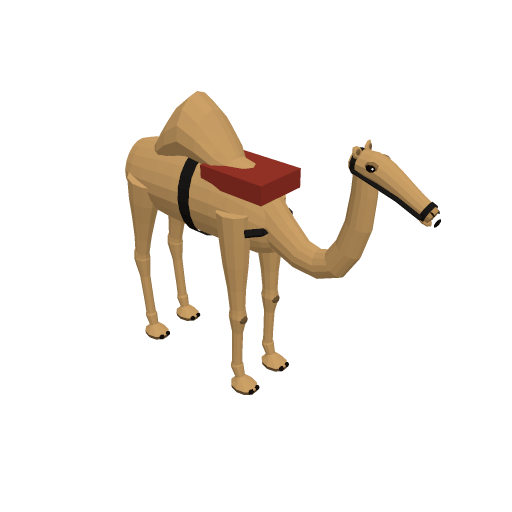
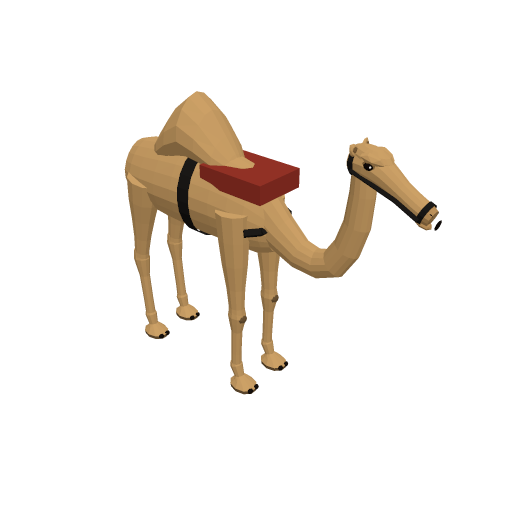
Draft animals: elephant ear flap and eye, camel brow, ox face, trot timing
- the elephant's ear is a thick curved flap (`flap`) rooted down the side of
  the head, cupped away from it, its top rolled out and its lobe hanging below
  the jaw; a bigger eye in a wrinkled socket;
- a heavy brow over the eye (`BROW`) on the camel, the elephant and the ox;
  the camel's domed forehead and thicker snout;
- the cow is a draft ox: a short, broad face with a flat forehead (`CREST`);
- the trot no longer spreads all four legs straight: the trotters plant a
  foot for less than half the stride and the joints fold as soon as the foot
  leaves the ground, so the swinging pair is tucked while the other carries
  the body (regression test in test/animalDrawn.test.ts).

Claude-Session: https://claude.ai/code/session_01BW4qmXPkc7DJGUGLoodsop

diff --git a/generator/draftAnimals.ts b/generator/draftAnimals.ts
@@ -128,7 +128,7 @@ export const SPECIES_SPECS: Readonly<Record<Species, SpeciesSpec>> = {
     ears: { length: 0.16, width: 0.045, droop: 0 },
     face: { eye: 0.24, eyeUp: 0.42, eyeR: 0.042, nose: "equine", forelock: true },
     colors: { coat: "#5a2c19", mane: "#1c1411", muzzle: "#d7b3a3", foot: "#3a322d", lower: "#ece5d8", blaze: "#ece5d8", inner: "#2a1710", nose: "#3a2420" },
-    mane: "flowing", harness: "collar", foot: "hoof", gait: "trot", stride: 2.4, duty: 0.5,
+    mane: "flowing", harness: "collar", foot: "hoof", gait: "trot", stride: 2.4, duty: 0.42,
     pairWidth: 0.92, rowLength: 3.1, counts: [1, 2, 4, 6], abreast: true,
     pace: 12, power: 6, weight: 0.8, size: 0.55,
   },
@@ -139,7 +139,7 @@ export const SPECIES_SPECS: Readonly<Record<Species, SpeciesSpec>> = {
     ears: { length: 0.28, width: 0.06, droop: 0.15 },
     face: { eye: 0.26, eyeUp: 0.42, eyeR: 0.034, nose: "equine" },
     colors: { coat: "#7d7570", mane: "#3b3532", muzzle: "#e4ddd3", foot: "#33302d", lid: "#d9d2c8", inner: "#e9e2d8", nose: "#2f2a27" },
-    mane: "upright", harness: "collar", foot: "hoof", gait: "trot", stride: 1.5, duty: 0.55,
+    mane: "upright", harness: "collar", foot: "hoof", gait: "trot", stride: 1.5, duty: 0.45,
     pairWidth: 0.62, rowLength: 2.1, counts: [1, 2, 4, 6], abreast: true,
     pace: 6, power: 2.5, weight: 0.25, size: 0.15,
   },
@@ -150,7 +150,7 @@ export const SPECIES_SPECS: Readonly<Record<Species, SpeciesSpec>> = {
     ears: { length: 0.25, width: 0.055, droop: 0.08 },
     face: { eye: 0.25, eyeUp: 0.42, eyeR: 0.038, nose: "equine", forelock: true },
     colors: { coat: "#4a3326", mane: "#231a15", muzzle: "#bfa48f", foot: "#2f2925", lid: "#7a604e", inner: "#b49a86", nose: "#2a1d17" },
-    mane: "upright", harness: "collar", foot: "hoof", gait: "trot", stride: 2.0, duty: 0.52,
+    mane: "upright", harness: "collar", foot: "hoof", gait: "trot", stride: 2.0, duty: 0.43,
     pairWidth: 0.82, rowLength: 2.7, counts: [1, 2, 4, 6], abreast: true,
     pace: 9, power: 5, weight: 0.45, size: 0.4,
   },
@@ -158,14 +158,14 @@ export const SPECIES_SPECS: Readonly<Record<Species, SpeciesSpec>> = {
     species: "cow", title: "Draft Cow",
     barrel: [[-0.98, 1.12, 0.12, 0.14], [-0.92, 1.1, 0.3, 0.33], [-0.7, 1.07, 0.36, 0.4], [-0.3, 1.04, 0.38, 0.43], [0.15, 1.03, 0.39, 0.45], [0.55, 1.07, 0.34, 0.43], [0.8, 1.1, 0.27, 0.36], [0.92, 1.06, 0.14, 0.22]],
     neck: [[0.7, 1.15, 0.24, 0.33], [0.92, 1.19, 0.2, 0.28], [1.08, 1.24, 0.16, 0.22]],
-    head: [[1.06, 1.4, 0.14, 0.11], [1.12, 1.34, 0.165, 0.15], [1.2, 1.23, 0.15, 0.14], [1.28, 1.11, 0.13, 0.12], [1.34, 1.02, 0.125, 0.1], [1.38, 0.97, 0.13, 0.085], [1.41, 0.94, 0.125, 0.07]],
+    head: [[1.07, 1.41, 0.16, 0.1], [1.12, 1.35, 0.19, 0.14], [1.18, 1.25, 0.18, 0.14], [1.24, 1.14, 0.155, 0.12], [1.29, 1.06, 0.145, 0.1], [1.32, 1.01, 0.15, 0.09], [1.34, 0.98, 0.145, 0.074]],
     legs: {
       front: 0.6, hind: -0.66, z: 0.21, top: 0.86, knee: 0.42, hock: 0.5, fetlock: 0.13, r: [0.16, 0.085, 0.065, 0.085],
       fore: [0.0, 0.0, 0.04], rear: [-0.12, -0.09, -0.05], hindFold: 1,
     },
     tail: { root: [-0.97, 1.3], tip: [-1.0, 0.45], r: 0.03, tuft: true },
     ears: { length: 0.16, width: 0.065, droop: 1.05 },
-    face: { eye: 0.2, eyeUp: 0.3, eyeR: 0.038, nose: "bovine" },
+    face: { eye: 0.24, eyeUp: 0.3, eyeR: 0.038, nose: "bovine" },
     colors: { coat: "#8c5a32", mane: "#6e4524", muzzle: "#d8b6a0", foot: "#2b2522", lid: "#6e4524", inner: "#d8b6a0", nose: "#c98f86" },
     mane: "none", feature: "horns", harness: "yoke", foot: "cloven", gait: "walk", stride: 1.3, duty: 0.65,
     pairWidth: 1.05, rowLength: 2.9, counts: [1, 2, 4, 6], abreast: true,
@@ -175,7 +175,7 @@ export const SPECIES_SPECS: Readonly<Record<Species, SpeciesSpec>> = {
     species: "camel", title: "Camel",
     barrel: [[-0.82, 1.62, 0.08, 0.1], [-0.76, 1.6, 0.22, 0.26], [-0.5, 1.6, 0.28, 0.32], [-0.1, 1.62, 0.3, 0.36], [0.3, 1.62, 0.28, 0.36], [0.6, 1.58, 0.22, 0.32], [0.76, 1.52, 0.12, 0.2]],
     neck: [[0.62, 1.62, 0.15, 0.2], [0.98, 1.38, 0.1, 0.13], [1.28, 1.42, 0.09, 0.11], [1.44, 1.78, 0.08, 0.1], [1.46, 2.19, 0.075, 0.085]],
-    head: [[1.37, 2.21, 0.08, 0.08], [1.5, 2.2, 0.1, 0.1], [1.6, 2.17, 0.09, 0.095], [1.72, 2.11, 0.075, 0.08], [1.83, 2.05, 0.065, 0.07], [1.9, 2.02, 0.06, 0.062], [1.94, 2.0, 0.05, 0.05]],
+    head: [[1.37, 2.21, 0.08, 0.085], [1.49, 2.21, 0.105, 0.115], [1.6, 2.17, 0.092, 0.1], [1.72, 2.1, 0.072, 0.08], [1.83, 2.04, 0.07, 0.077], [1.9, 2.01, 0.07, 0.072], [1.95, 1.99, 0.058, 0.058]],
     legs: {
       front: 0.5, hind: -0.55, z: 0.2, top: 1.42, knee: 0.72, hock: 0.8, fetlock: 0.2, r: [0.11, 0.062, 0.042, 0.1],
       fore: [0.02, 0.0, 0.07], rear: [-0.12, -0.07, -0.02], hindFold: 1,
@@ -184,7 +184,7 @@ export const SPECIES_SPECS: Readonly<Record<Species, SpeciesSpec>> = {
     ears: { length: 0.08, width: 0.04, droop: 0.4 },
     face: { eye: 0.22, eyeUp: 0.38, eyeR: 0.034, nose: "camel" },
     colors: { coat: "#c49a62", mane: "#9c7646", muzzle: "#b58b56", foot: "#6e5536", lid: "#8a6a40", inner: "#7d5f3a", nose: "#3a2a1a" },
-    mane: "none", feature: "hump", harness: "breastband", foot: "padded", gait: "pace", stride: 2.6, duty: 0.55,
+    mane: "none", feature: "hump", harness: "breastband", foot: "padded", gait: "pace", stride: 2.6, duty: 0.48,
     pairWidth: 1.0, rowLength: 3.4, counts: [1, 2, 3], abreast: false,
     pace: 8, power: 4.5, weight: 0.5, size: 0.7,
   },
@@ -199,7 +199,7 @@ export const SPECIES_SPECS: Readonly<Record<Species, SpeciesSpec>> = {
     },
     tail: { root: [-1.25, 2.3], tip: [-1.32, 1.2], r: 0.04, tuft: true },
     ears: { length: 0.7, width: 0.55, droop: 0.2 },
-    face: { eye: 0.5, eyeUp: 0.08, eyeR: 0.05, nose: "trunk" },
+    face: { eye: 0.42, eyeUp: 0.14, eyeR: 0.06, nose: "trunk" },
     colors: { coat: "#7c7671", mane: "#4b4642", muzzle: "#6e6863", foot: "#5a5550", lid: "#5f5955", inner: "#9a8a80", nose: "#b89a8c" },
     mane: "none", feature: "trunk", harness: "breastband", foot: "padded", gait: "walk", stride: 2.4, duty: 0.66,
     pairWidth: 2.0, rowLength: 4.4, counts: [1, 2], abreast: false,
@@ -759,6 +759,12 @@ function drawTail(m: MeshBuilder, a: Drawn): void {
 /** Where the head's surface lies across at a share `up` (-1..1) of its half height: its half width there. */
 const halfWidthAt = (w: number, up: number, jaw: number): number => w * Math.sqrt(Math.max(0, 1 - up * up)) * (1 - (up < 0 ? jaw * Math.abs(up) : 0));
 
+/** The head's top: narrowed (> 0) on the equines' and the camel's, squared (< 0) on the ox's flat forehead. */
+const CREST: Record<Species, number> = { horse: 0.08, donkey: 0.08, mule: 0.08, cow: -0.22, camel: 0.04, elephant: 0 };
+
+/** How heavy a brow overhangs the eye (0 none): the camel's and the elephant's, the ox's lighter. */
+const BROW: Record<Species, number> = { horse: 0, donkey: 0, mule: 0, cow: 0.9, camel: 1.6, elephant: 1.2 };
+
 /** The head's jaw taper by species: the equines' and the camel's deep narrow jaw, the cow's broad one. */
 const JAW: Record<Species, number> = { horse: 0.38, donkey: 0.32, mule: 0.35, cow: 0.18, camel: 0.3, elephant: 0.08 };
 
@@ -784,6 +790,12 @@ function drawEyes(m: MeshBuilder, a: Drawn): void {
     blob(m, a.mat("Lid"), lid, [look, fwd, upv], [eyeR * 0.75, eyeR * 1.45, eyeR * 1.2], d.eye);
     const ball = add(c0, mul(side, surf - eyeR * 0.12));
     blob(m, "eye", ball, [look, fwd, upv], [eyeR * 0.72, eyeR * 1.08, eyeR * 0.88], d.eye);
+    const k = BROW[s.species];
+    if (k) {
+      // a heavy brow over the eye (the camel's, the ox's) or the elephant's wrinkled socket
+      const brow = add(add(c0, mul(up, eyeR * 1.15)), mul(side, surf - eyeR * 0.55 * k));
+      blob(m, a.mat("Coat"), brow, [look, fwd, upv], [eyeR * 0.75 * k, eyeR * 1.7 * k, eyeR * 0.6 * k], Math.max(4, d.eye - 2));
+    }
     if (d.fine) {
       // the glint: a small facet just off the eyeball, up and forward
       const dirn = norm(add(add(look, mul(fwd, 0.45)), mul(upv, 0.45)));
@@ -856,6 +868,40 @@ export function earRoot(s: SpeciesSpec, d: Detail, sd: number): { base: Vec3; ro
   return { base, root: add(base, mul(dir, -Math.min(s.ears.length * 0.25, ph * 0.5))), dir };
 }
 
+/**
+ * A thick curved flap (an elephant's ear): `grid` the outer surface, rows by columns,
+ * its inner surface the same moved by `thick`, the edges walled; every face turned out.
+ */
+function flap(m: MeshBuilder, mat: string, grid: readonly Vec3[][], thick: Vec3): void {
+  const inner = grid.map((row) => row.map((p) => add(p, thick)));
+  const away = mul(norm(thick), -1);
+  const centre = mean(grid.flat().map((p) => add(p, mul(thick, 0.5))));
+  const face = (pa: Vec3, pb: Vec3, pc: Vec3, dirn: Vec3) => m.facets(mat, [pa, pb, pc], dirn);
+  const R = grid.length;
+  const C = grid[0]!.length;
+  for (let r = 0; r + 1 < R; r++) for (let c = 0; c + 1 < C; c++) {
+    for (const [g, dir] of [[grid, away], [inner, mul(away, -1)]] as const) {
+      const [p00, p01, p10, p11] = [g[r]![c]!, g[r]![c + 1]!, g[r + 1]![c]!, g[r + 1]![c + 1]!];
+      face(p00, p01, p11, dir);
+      face(p00, p11, p10, dir);
+    }
+  }
+  // the walls round the edge: the border of the grid, in order
+  const ring: Array<[number, number]> = [];
+  for (let c = 0; c < C; c++) ring.push([0, c]);
+  for (let r = 1; r < R; r++) ring.push([r, C - 1]);
+  for (let c = C - 2; c >= 0; c--) ring.push([R - 1, c]);
+  for (let r = R - 2; r > 0; r--) ring.push([r, 0]);
+  for (let i = 0; i < ring.length; i++) {
+    const [ra, ca] = ring[i]!;
+    const [rb, cb] = ring[(i + 1) % ring.length]!;
+    const [a0, b0, a1, b1] = [grid[ra]![ca]!, grid[rb]![cb]!, inner[ra]![ca]!, inner[rb]![cb]!];
+    const out = sub(mean([a0, b0]), centre);
+    face(a0, b0, b1, out);
+    face(a0, b1, a1, out);
+  }
+}
+
 /** The ears: a flattened cone with its opening forward and its inside coloured; an elephant's a broad flap. */
 function drawEars(m: MeshBuilder, a: Drawn): void {
   const { s, d } = a;
@@ -863,13 +909,22 @@ function drawEars(m: MeshBuilder, a: Drawn): void {
   const { length, width } = s.ears;
   for (const sd of [-1, 1]) {
     if (s.feature === "trunk") {
-      // an elephant's ear: a thick rounded flap against the side of the head, its top edge folded over
-      const [hx, hy, hw] = stationAt(head, 0.25);
-      const zz = sd * (hw * 0.92 + 0.04);
-      const c = at(a, hx - 0.1, hy - 0.08, zz);
-      const outline: Vec3[] = [[0.1, 0.3], [-0.12, 0.34], [-0.32, 0.22], [-0.4, -0.02], [-0.34, -0.3], [-0.16, -0.52], [0.02, -0.46], [0.12, -0.2]].map(([x, y]) => add(c, [x!, y!, sd * 0.05 * (1 - (x! + 0.4) / 0.6)]));
-      m.slab(a.mat("Coat"), outline, [0, 0, -sd * 0.05]);
-      tube3(m, a.mat("Coat"), [add(c, [0.1, 0.3, sd * 0.02]), add(c, [-0.12, 0.35, sd * 0.03]), add(c, [-0.33, 0.23, sd * 0.06]), add(c, [-0.41, -0.02, sd * 0.07])], [0.035, 0.04, 0.04, 0.03], Math.max(5, d.eye - 2), Z);
+      // an elephant's ear: a thick flap rooted along the side of the head, cupped away
+      // from it toward its free back edge, its top edge rolled outward, the lobe hanging down
+      const [hx, hy, hw] = stationAt(head, 0.3);
+      const top = hy + 0.32;
+      // rows from the top down: (height below the top, the flap's width back from its root)
+      const rows: ReadonlyArray<readonly [number, number]> = d.fine
+        ? [[0, 0.14], [0.07, 0.34], [0.2, 0.44], [0.38, 0.44], [0.56, 0.37], [0.72, 0.24], [0.84, 0.07]]
+        : [[0, 0.14], [0.2, 0.44], [0.5, 0.4], [0.84, 0.07]];
+      const cols = d.fine ? [0, 0.3, 0.6, 0.85, 1] : [0, 0.5, 1];
+      const grid = rows.map(([dy, w], r) => cols.map((u): Vec3 => {
+        const v = r / (rows.length - 1);
+        // the root runs down the side of the head and back under the jaw to the hanging lobe
+        const out = hw * 0.86 + 0.05 + 0.11 * u ** 1.6 + 0.03 * Math.sin(Math.PI * v) + (r === 0 ? 0.04 * u : 0);
+        return at(a, hx + 0.02 - 0.16 * v * v - w * u, top - dy + 0.05 * u * (1 - v) - 0.04 * u * v, sd * out);
+      }));
+      flap(m, a.mat("Coat"), grid, [0, 0, -sd * 0.045]);
       continue;
     }
     const e = earRoot(s, d, sd);
@@ -918,7 +973,7 @@ function drawHead(m: MeshBuilder, a: Drawn): void {
   m.scope("head", () => {
     const head = smooth(s.head, d.sub);
     const mi = (s.head.length - 2) * d.sub;
-    const crest = s.feature === "trunk" ? 0 : 0.08;
+    const crest = CREST[s.species];
     tubeOf(m, a, a.mat("Coat"), head.slice(0, mi + 1), d.neck, { end: false }, jaw, crest);
     tubeOf(m, a, a.mat("Muzzle"), head.slice(mi), d.neck, { start: false }, jaw, crest);
     drawEyes(m, a);
@@ -941,6 +996,12 @@ function drawHead(m: MeshBuilder, a: Drawn): void {
       // the forelock falling from the poll over the forehead
       const [, , w0] = s.head[0]!;
       tube3(m, a.mat("Mane"), [top(0, 0.75), top(0.07, 1.04), top(0.15, 1.05), top(0.21, 1.0)], [w0 * 0.3, w0 * 0.45, w0 * 0.35, w0 * 0.12], Math.max(5, d.eye - 2));
+    }
+    if (s.species === "camel") {
+      // the camel's domed forehead between and behind its eyes
+      const [x, y, w, h] = stationAt(hs(a), 0.17);
+      const { up, d: along } = axisAt(hs(a), 0.17);
+      blob(m, a.mat("Coat"), add(at(a, x, y, 0), mul(up, h * 0.45)), [up, along, Z], [h * 0.65, h * 1.35, w * 0.82], d.neck);
     }
     m.scope("ears", () => drawEars(m, a));
     if (s.feature === "horns") {
@@ -1118,7 +1179,9 @@ function legPose(s: SpeciesSpec, l: Leg, u: number): LegPose {
   const max = Math.asin(Math.min(0.95, half / len));
   if (u < s.duty) return { swing: Math.asin(Math.max(-0.95, Math.min(0.95, (half * (1 - (2 * u) / s.duty)) / len))), knee: 0, fet: 0 };
   const t = (u - s.duty) / (1 - s.duty);
-  const b = Math.sin(Math.PI * t);
+  // the joints fold at once as the foot leaves the ground and open again before it lands,
+  // so the swinging pair is tucked up while the planted one carries the body
+  const b = Math.sin(Math.PI * Math.sqrt(t));
   const padded = s.foot === "padded";
   const fold = padded ? 0.45 : 1.1;
   const front = l.startsWith("front");

diff --git a/test/animalDrawn.test.ts b/test/animalDrawn.test.ts
@@ -154,6 +154,18 @@ describe("the draft animals", () => {
     }
   });
 
+  it("trot with the swinging diagonal pair tucked up, never all four legs straight and spread", () => {
+    for (const s of SPECIES.filter((x) => SPECIES_SPECS[x].gait === "trot")) {
+      for (let k = 0; k < 24; k++) {
+        const p = gaitPose(s, k / 24);
+        // some leg is folded at the knee at every moment of the stride
+        expect(Math.max(...Object.values(p.legs).map((l) => Math.abs(l.knee))), `${s} at ${k}/24`).toBeGreaterThan(0.25);
+      }
+      // a suspension share: a foot is planted for less than half the stride
+      expect(SPECIES_SPECS[s].duty).toBeLessThan(0.5);
+    }
+  });
+
   it("keeps a planted foot on the ground through the stride", () => {
     for (const s of SPECIES) {
       for (let k = 0; k < 24; k++) {

diff --git a/docs/models/draft-animals.md b/docs/models/draft-animals.md
@@ -25,7 +25,7 @@ along the animal from its middle, y up from the ground, z to its right):
 | `horse` (a bay Clydesdale, the former horse tram's) | 1.7 m | collar, hames, traces | `hoof` | trot | 2.4 m | 1, 2, 4, 6 | 12 km/h | 6 kW | 0.8 t |
 | `donkey` | 1.1 m | collar | `hoof` | trot | 1.5 m | 1, 2, 4, 6 | 6 km/h | 2.5 kW | 0.25 t |
 | `mule` | 1.45 m | collar | `hoof` | trot | 2.0 m | 1, 2, 4, 6 | 9 km/h | 5 kW | 0.45 t |
-| `cow` | 1.4 m | neck yoke | `cloven` | walk | 1.3 m | 1, 2, 4, 6 | 4 km/h | 3.5 kW | 0.6 t |
+| `cow` (a draft ox: short face, flat forehead) | 1.4 m | neck yoke | `cloven` | walk | 1.3 m | 1, 2, 4, 6 | 4 km/h | 3.5 kW | 0.6 t |
 | `camel` (dromedary) | 1.9 m (hump 2.2 m) | breast band, saddle pad | `padded` | pace | 2.6 m | 1, 2, 3 | 8 km/h | 4.5 kW | 0.5 t |
 | `elephant` (Asian) | 2.9 m | breast band, pad | `padded` | walk | 2.4 m | 1, 2 | 6 km/h | 12 kW | 4 t |
 
@@ -46,9 +46,13 @@ with a light car up a 5 % grade, as the horse tram's 10 kW for a pair did.
   detail - placed by `face` (along the head, above its axis, the radius); the nose by `face.nose`
   (an equine's nostrils, a bovine's broad pink pad with its nostrils, a camel's slits, split upper
   lip and hanging lower lip, an elephant's trunk tip with its nostrils and its lower lip) and the
-  mouth's line back from the muzzle; the ears, flattened cones with their insides coloured
-  (`Inner`; an elephant's a thick flap with a folded top edge); a horse's or mule's forelock, the
-  horse's blaze, a cow's horns and poll ridge, an elephant's twin-domed forehead, trunk and tusks;
+  mouth's line back from the muzzle; a heavy brow over the eye (`BROW`: the camel's, the
+  elephant's wrinkled socket, the ox's lighter); the ears, flattened cones with their insides
+  coloured (`Inner`; an elephant's a thick curved flap, `flap`, rooted down the side of the head,
+  cupped away from it, its top edge rolled out and its lobe hanging below the jaw); the head's
+  top by `CREST` (narrowed on the equines, squared into the ox's broad flat forehead on its short
+  face); a horse's or mule's forelock, the horse's blaze, a cow's horns and poll ridge, the
+  camel's domed forehead, an elephant's twin-domed forehead, trunk and tusks;
   the bridle (head band, noseband and cheek pieces; no blinkers, which would hide the eyes);
 - **the tail**, a hair tail or a tuft, its dock inside the rump;
 - **the legs**, each through the joints `legChain` gives (the species' `legs`): the root at the
@@ -112,7 +116,10 @@ pace: the lateral pairs; walk: hind left, fore left, hind right, fore right a qu
 foot planted for the species' `duty` share and sliding back under the body by the stride's share,
 then swung forward with its joints folded (`legPose`: the front knee and every fetlock tuck the
 foot back, a hock brings it forward under the body, the elephant's hind knee back; padded feet
-fold less); the head nods, the tail swishes, and each body is lifted
+fold less). The joints fold at once as the foot leaves the ground and open again before it lands
+(`sin(pi sqrt(t))` of the swing), and the trotters plant a foot for less than half the stride
+(`duty` 0.42-0.45; the camel's pace 0.48), so one diagonal pair carries the body while the
+other is tucked up, never all four legs straight and spread; the head nods, the tail swishes, and each body is lifted
 so the lowest point of any foot - the sole's edges and the widest rings above it
 (`footOutline`), carried through the three joints - stands on the ground (`gaitPose`). Each animal steps at its own phase
 (`teamPhase`: a pair out of step, each row a little behind), deterministic.

diff --git a/.agents/skills/animal/SKILL.md b/.agents/skills/animal/SKILL.md
@@ -43,9 +43,11 @@ joints, the silhouette of the back and neck. Barrel rings are cheap to cut with 
   and hanging lower lip, the elephant's trunk tip; the mouth's line back from the muzzle.
   Ears with their inside coloured (`<species>Inner`). No blinkers: they hide the eyes.
 - **The species' marks.** A horse's forelock, flowing mane and blaze, the Clydesdale's
-  feathering; a donkey's long ears and pale muzzle; a cow's horns, poll ridge, dewlap and
-  hip bones, cloven hooves; a camel's hump, knee calluses and broad pads; an elephant's
-  twin-domed forehead, ear flaps, trunk, tusks, lower lip and toenails.
+  feathering; a donkey's long ears and pale muzzle; an ox's short face with a broad flat
+  forehead (`CREST`), horns, poll ridge, dewlap and hip bones, cloven hooves; a camel's heavy
+  brow (`BROW`), domed forehead, bulbous snout, hump, knee calluses and broad pads; an
+  elephant's twin-domed forehead, wrinkled eye socket, curved ear flaps (`flap`), trunk,
+  tusks, lower lip and toenails.
 - **The harness** of its kind (`harness`): collar and hames, a breast band and pad, the
   cow's yoke drawn with the team; the bridle (head band, noseband, cheek pieces).
 
@@ -58,7 +60,9 @@ joints, the silhouette of the back and neck. Barrel rings are cheap to cut with 
   millimetres proud or is a blob half sunk into the skin; a tube's end cap must not lie in
   the plane of another material's cap (the mane starts 3 cm up the neck). The build
   refuses a flickering model and the test checks every vehicle at every team.
-- The gait (`gaitPose`, `addGait`) folds every knee and fetlock in the swing; the body is
+- The gait (`gaitPose`, `addGait`) folds every knee and fetlock in the swing, at once after
+  the foot leaves the ground; a trotter's `duty` stays under 0.5 so the swinging pair is
+  tucked while the other carries the body (tested); the body is
   lifted so the lowest point of any foot (`footOutline`, through the three joints) stands
   on the ground. A new foot shape adds its outline there.
 - Parameters, ids, sounds and game figures belong to the team (`teamParams`, `teamGame`):
